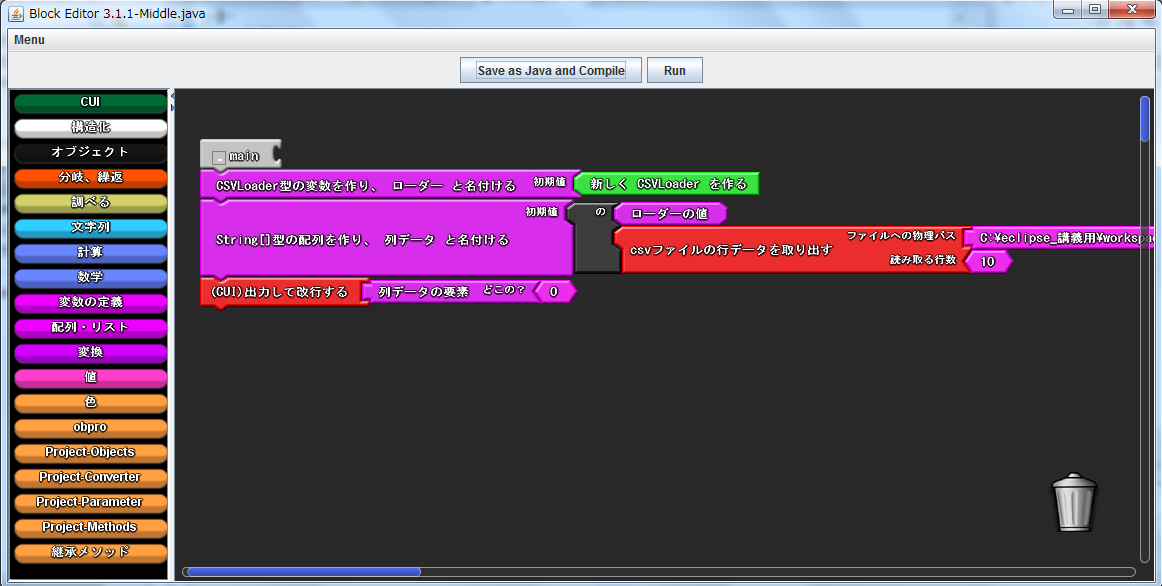
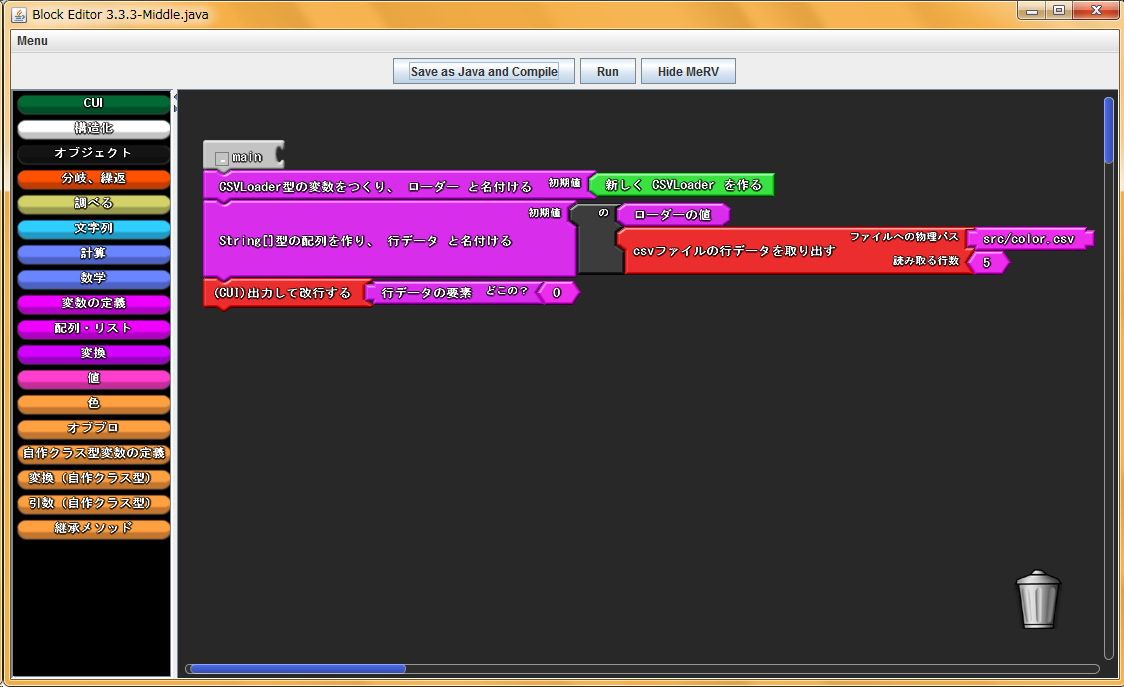
中間課題の説明ページ更新

diff --git a/BEHomePage/HomePagesrc/MiddleHint.html b/BEHomePage/HomePagesrc/MiddleHint.html
@@ -45,12 +45,12 @@
 						
 					<h3>データを取り出す</h3>
 						<h4>CSVLoader型の変数を定義する</h4>
-							<p>ブロックエディタの右側にある、Project-Objectsというファクトリをクリックし、「CSVLoader型のローカル変数を作り、...」というブロックを取り出してください。</p>
+							<p>ブロックエディタの右側にある、自作クラス型変数の定義というファクトリをクリックし、「CSVLoader型の変数を作り、...」というブロックを取り出してください。</p>
 							<p><img src="../img/Middle/AccessCSVLoader.png"  border='0' style='width:60%' /><br>
 							</p>	
 						
 							<p>ローカル変数定義ブロックを取り出してください。ローカル変数定義ブロックを右クリックすると、CSVLoaderというカテゴリが出てきます。これをマウスオーバーすると、利用可能なメソッドが表示されます。</p>
-							<p><img src="../img/Middle/AccessCSVLoader.png"  border='0' style='width:60%' /><br>
+							<p><img src="../img/Middle/AccessCSVLoaderMethod.png"  border='0' style='width:60%' /><br>
 							</p>	
 						<h4>csvファイルから行データを取り出す</h4>
 							<p>CSVLoader型の変数定義ブロックを右クリックし、「csvファイルから行データを取り出す」をクリックします。</p>
@@ -58,7 +58,7 @@
 							<p><img src="../img/Middle/LoadCSVRow.png"  border='0' style='width:60%' /><br>
 							</p>
 						
-							<p>「csvファイルから行データを取り出す」というブロックのpathというところに、読み込むcsvファイルのパスを、lineNumというところに読み込みたい行の番号のブロックを結合してください。</p>
+							<p>「csvファイルから行データを取り出す」というブロックのファイルへの物理パスというところに、読み込むcsvファイルのパスを、読み取る行数というところに読み込みたい行の番号のブロックを結合してください。</p>
 							<p><img src="../img/Middle/PathSetting.png"  border='0' style='width:60%' /><br>
 							</p>					
 							
@@ -77,7 +77,7 @@
 							<p>コンソールに表示されない場合は、csvファイルへのパスが間違っていないか確認してください。</p>
 						<h4>csvファイルから列データを取り出す</h4>
 							<p>CSVLoader型の変数定義ブロックを右クリックし、「csvファイルから列データを取り出す」をクリックします。</p>									
-							<p>作成したブロックの一番外側の黒いブロックを外して「csvファイルから列データを取り出す」というブロックのpathというところに、読み込むcsvファイルのパスを、lineNumというところに読み込みたい行の番号のブロックを結合してください。</p>
+							<p>作成したブロックの一番外側の黒いブロックを外して「csvファイルから列データを取り出す」というブロックのファイルへの物理パスというところに、読み込むcsvファイルのパスを、読み取る列数というところに読み込みたい行の番号のブロックを結合してください。</p>
 							<p><img src="../img/Middle/GetCSVColumnMethod.png"  border='0' style='width:60%' /><br>
 							</p>								
 							
